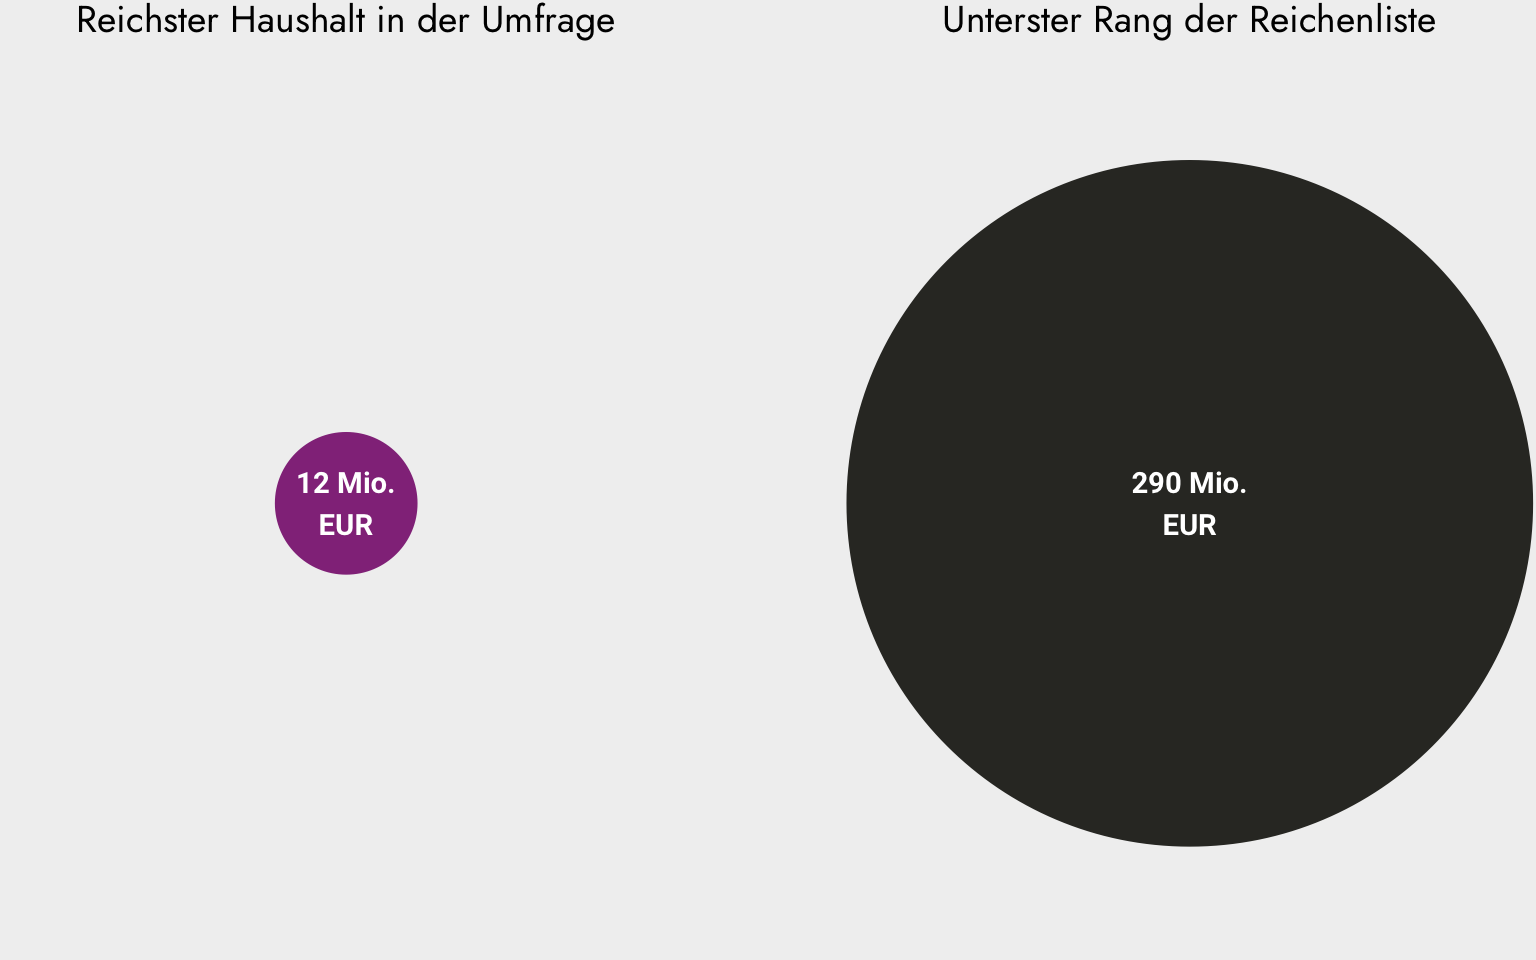
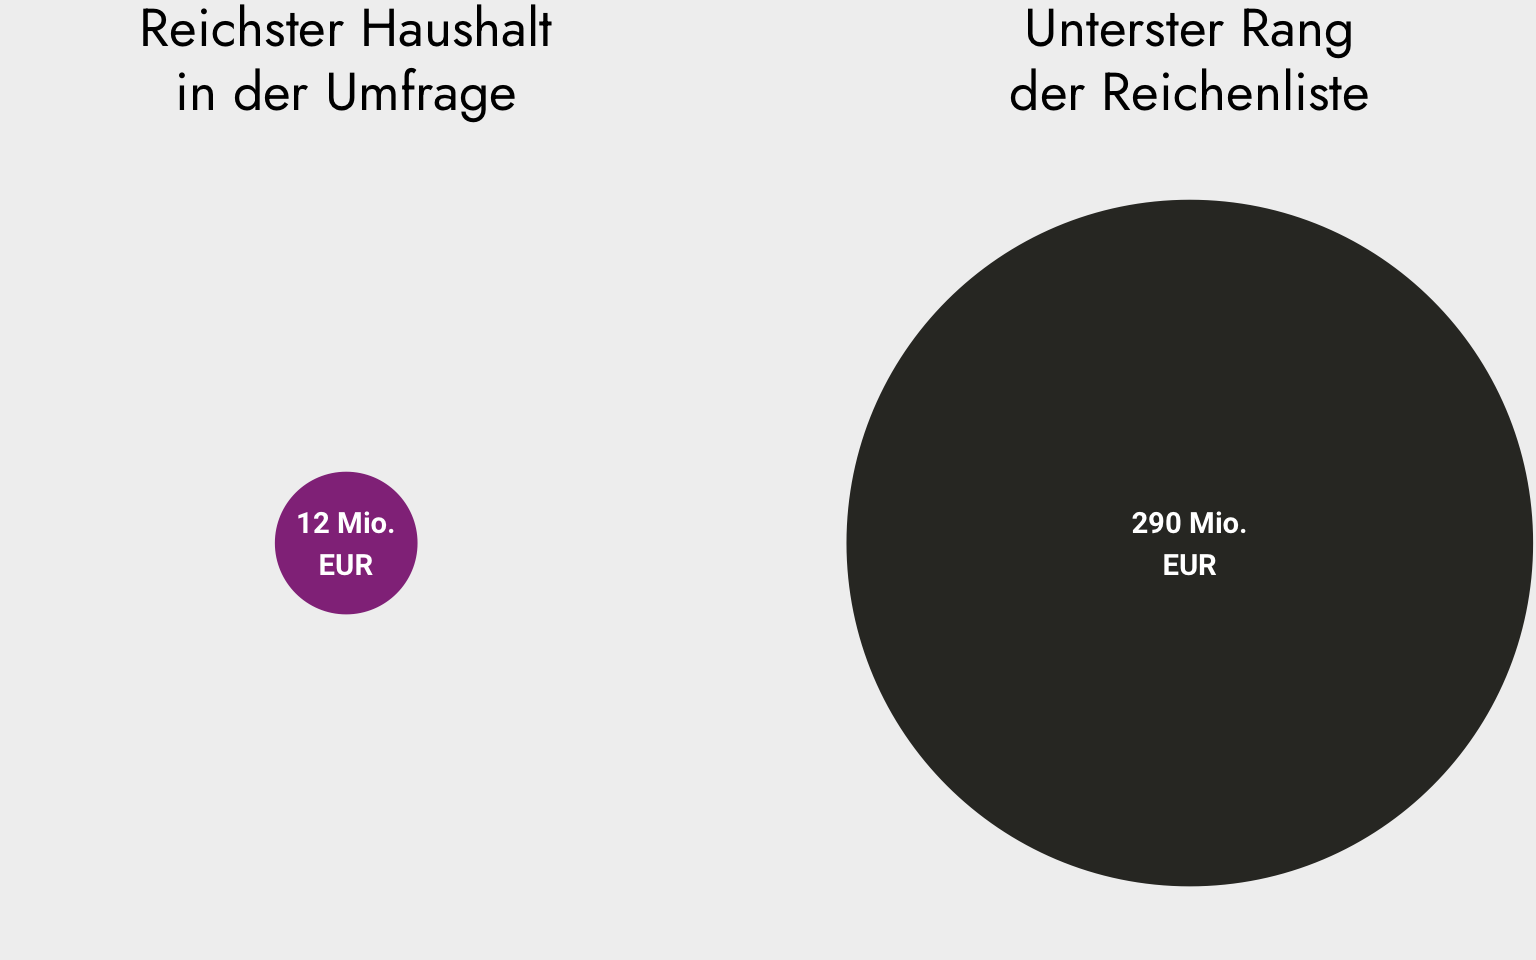
Schriftgröße im Chart erhöht

diff --git a/docs/index.html b/docs/index.html
@@ -56,11 +56,11 @@ ul.task-list li input[type="checkbox"] {
       <!-- user-provided yaml closeread style options -->
       <style>
         :root {
-          --cr-narrative-text-color-overlay: black;
+          --cr-narrative-border-radius: 5px;
 --cr-section-background-color: #F1F1F1;
---cr-narrative-border-radius: 5px;
---cr-narrative-background-color-overlay: #FFFFFFF2;
+--cr-narrative-text-color-overlay: black;
 --cr-narrative-font-family: Jost;
+--cr-narrative-background-color-overlay: #FFFFFFF2;
         }
       </style>
     
@@ -365,31 +365,31 @@ ul.task-list li input[type="checkbox"] {
 </div>
 <div class="trigger new-trigger" data-focus-on="cr-haushalte-untere50-adj">
 <div class="narrative">
-<p>Ihr Anteil am Gesamtvermögen privater Haushalte beträgt nach der Anpassung lediglich <span class="highlighted-text">drei Prozent</span> (statt fünf Prozent).</p>
+<p>Ihr Anteil am Gesamtvermögen privater Haushalte beträgt nach der Anpassung lediglich <span class="highlighted-text">drei Prozent</span>.</p>
 </div>
 </div>
 </div>
 <div class="sticky-col">
 <div class="sticky-col-stack">
 <div id="cr-muenzen-top-1-roh" class="sticky">
-<p><img src="media/muenzen-top-1-roh.png" class="img-fluid" style="width:95.0%" alt=""></p>
+<p><img src="media/muenzen-top-1-roh.png" class="img-fluid" alt=""></p>
 </div>
 <div id="cr-muenzen-top-1-adj" class="sticky">
-<p><img src="media/muenzen-top-1-adj.png" class="img-fluid" style="width:95.0%" alt=""></p>
+<p><img src="media/muenzen-top-1-adj.png" class="img-fluid" alt=""></p>
 </div>
 <div id="cr-haushalte-1-lila-99-grau" class="sticky">
 <div style="text-align:center">
-<img src="media/haushalte-1-lila-99-grau.png" class="img-fluid" style="width:75.0%" alt="">
+<img src="media/haushalte-1-lila-99-grau.png" class="img-fluid" alt="">
 </div>
 </div>
 <div id="cr-haushalte-1-lila-9-blau-90-grau" class="sticky">
 <div style="text-align:center">
-<img src="media/haushalte-1-lila-9-blau-90-grau.png" class="img-fluid" style="width:75.0%" alt="">
+<img src="media/haushalte-1-lila-9-blau-90-grau.png" class="img-fluid" alt="">
 </div>
 </div>
 <div id="cr-haushalte-untere50-adj" class="sticky">
 <div style="text-align:center">
-<img src="media/haushalte-untere50-adj.png" class="img-fluid" style="width:75.0%" alt="">
+<img src="media/haushalte-untere50-adj.png" class="img-fluid" alt="">
 </div>
 </div>
 </div>
